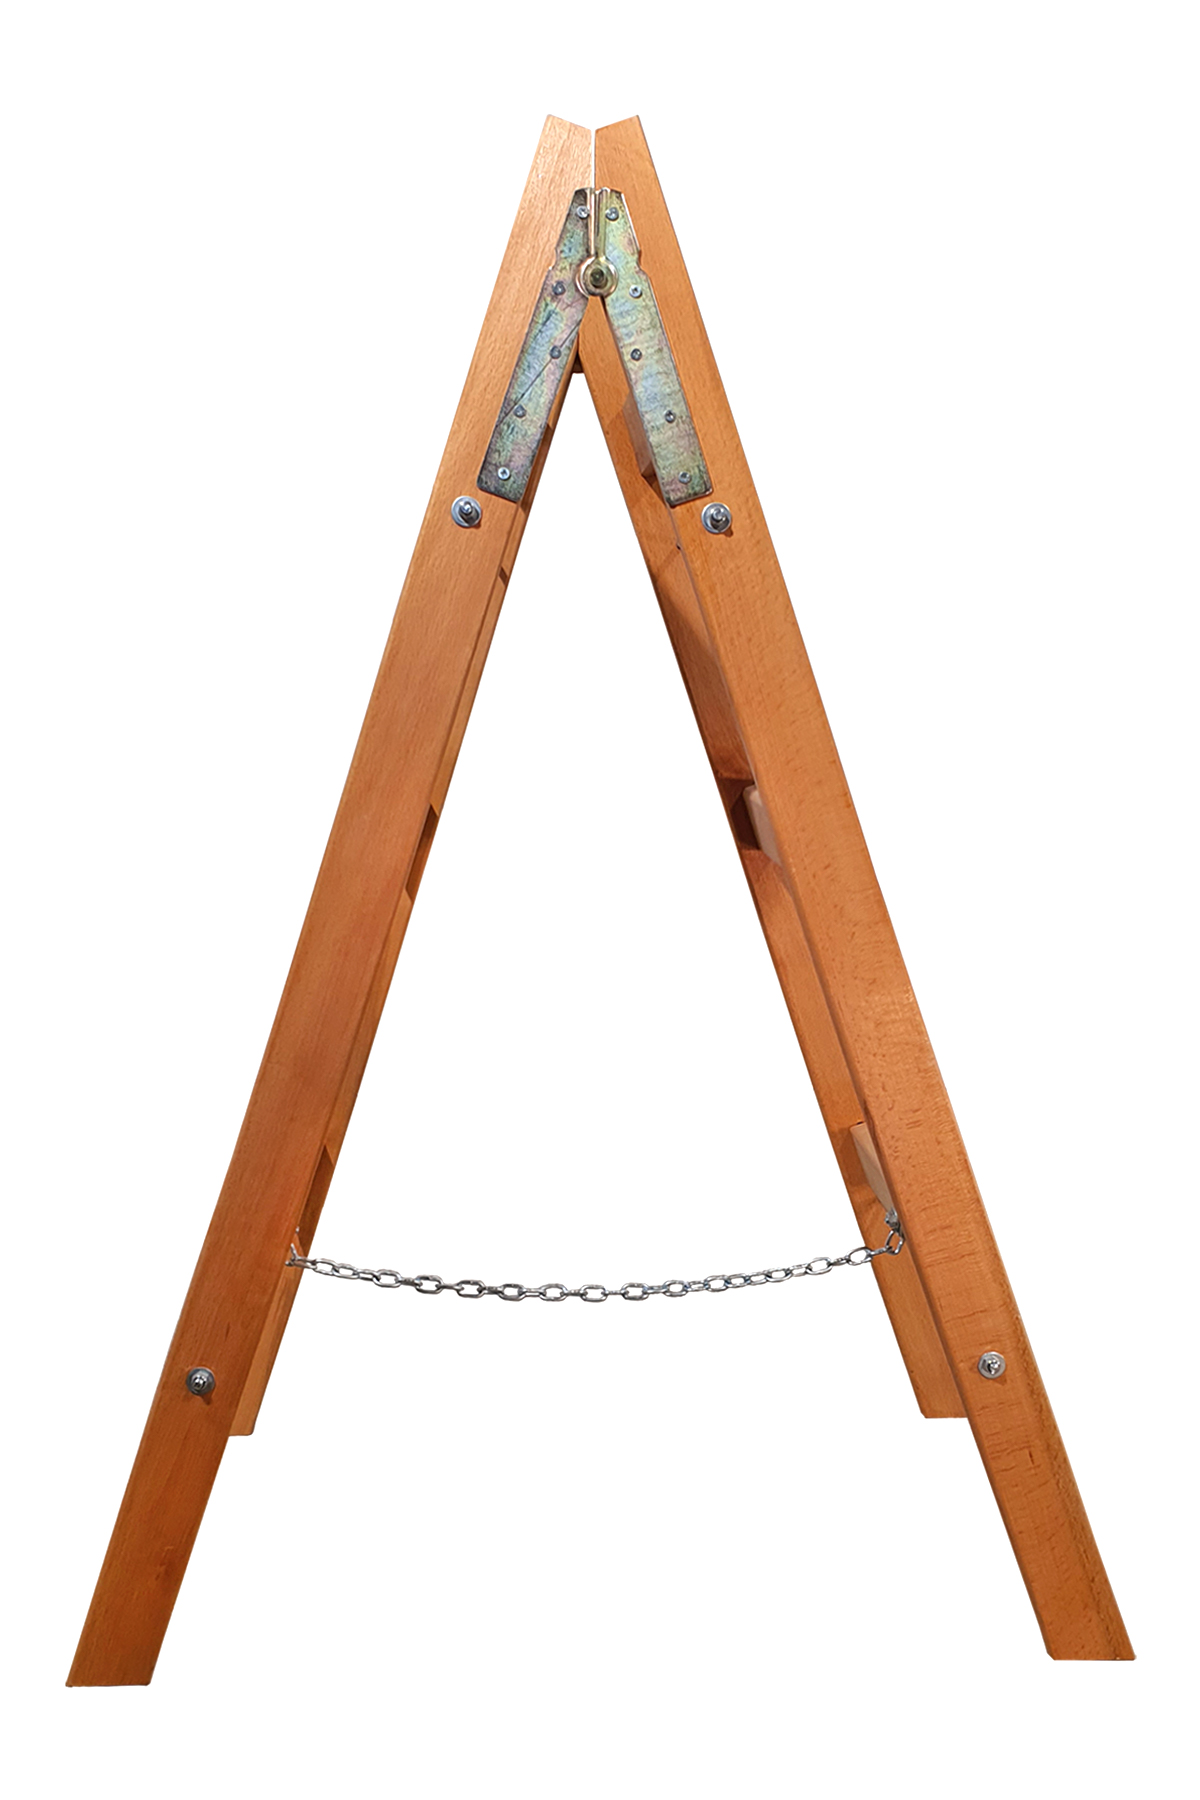
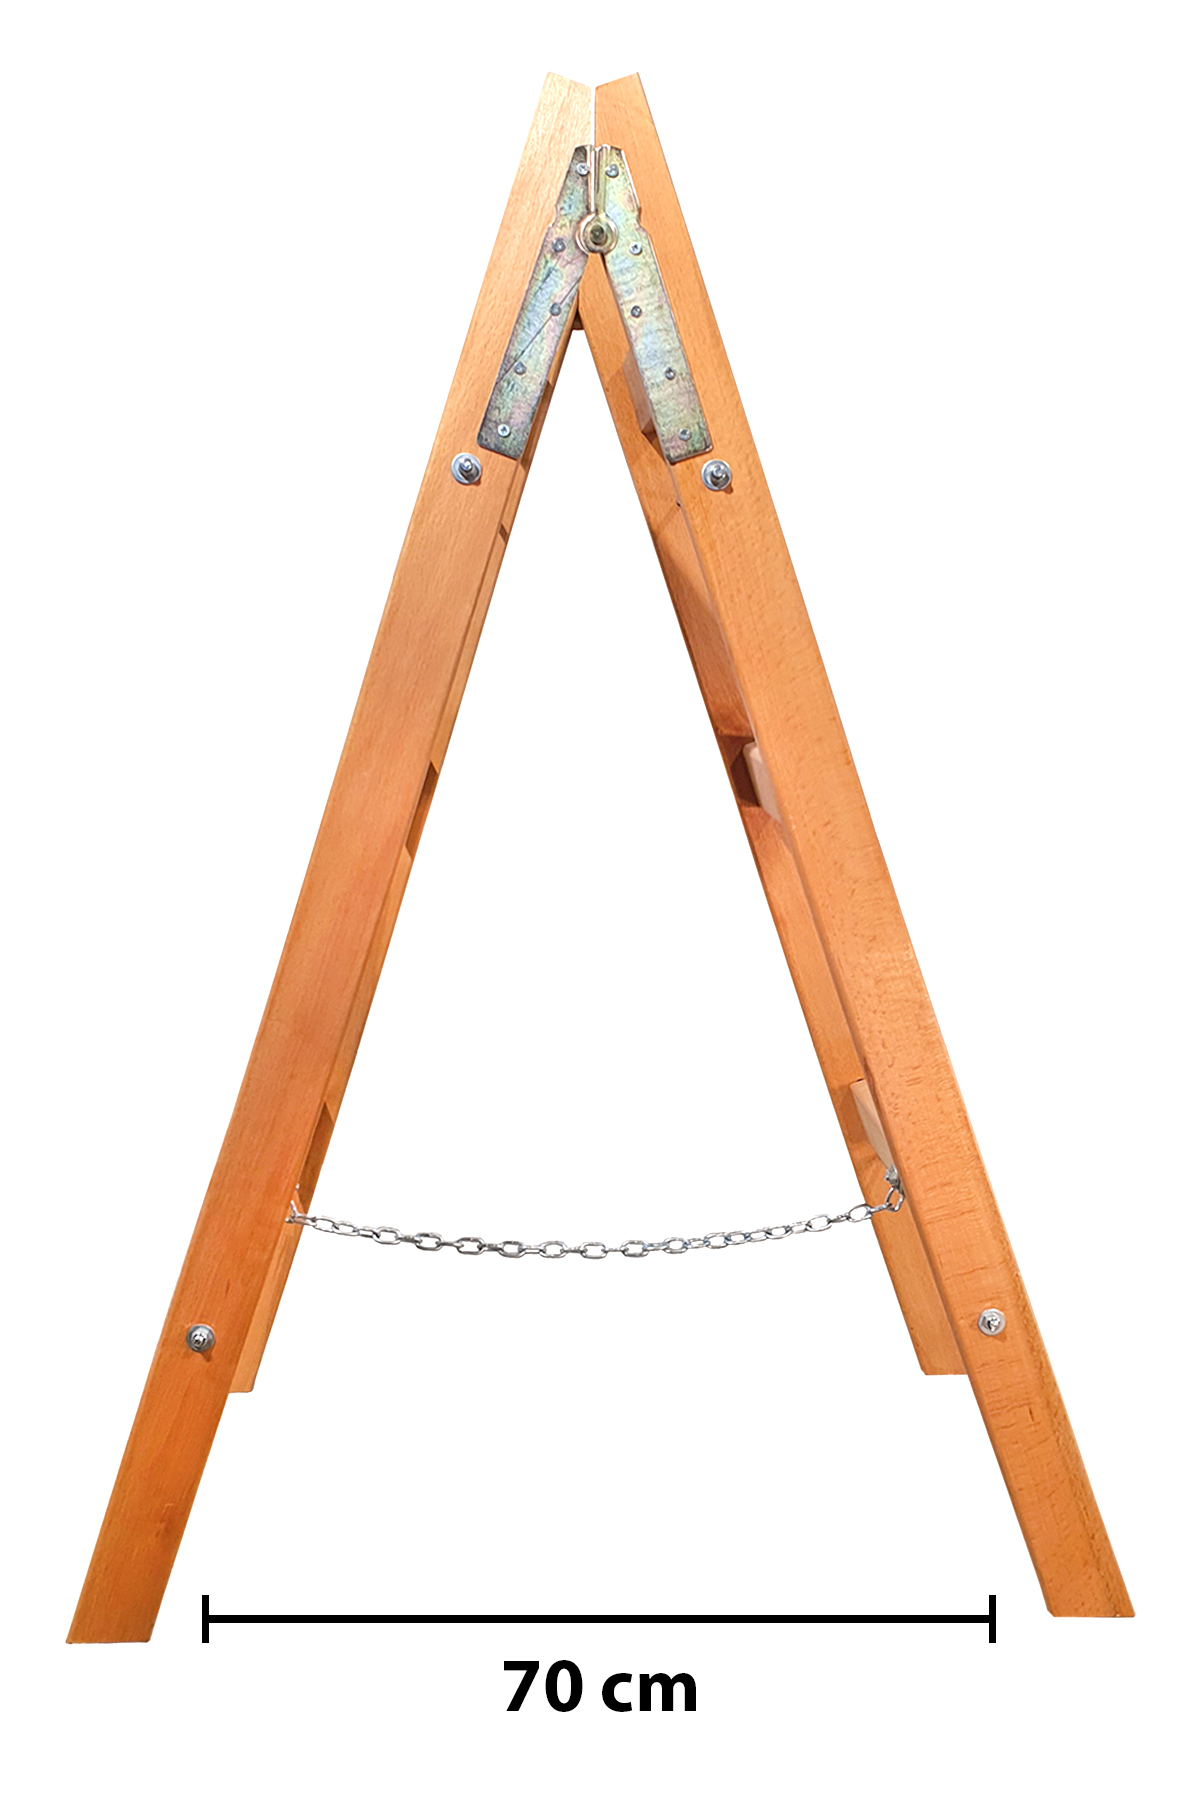
fotoğraflar güncellendi fiayt bilgileri güncellendi

Changed region(s): [[0.0308, 0.0311, 0.9558, 0.9644]]

diff --git a/client/src/pages/Home.tsx b/client/src/pages/Home.tsx
@@ -69,7 +69,7 @@ export default function Home() {
               <div className="relative">
                 <div className="aspect-square rounded-2xl overflow-hidden shadow-2xl">
                   <img 
-                    src="/images/products/TopluUrunlerDikeyYandan3.jpg" 
+                    src="/images/products/topluxyz.jpg"
                     alt="Çift Çıkışlı Ahşap Merdivenler" 
                     className="w-full h-full object-cover"
                   />
